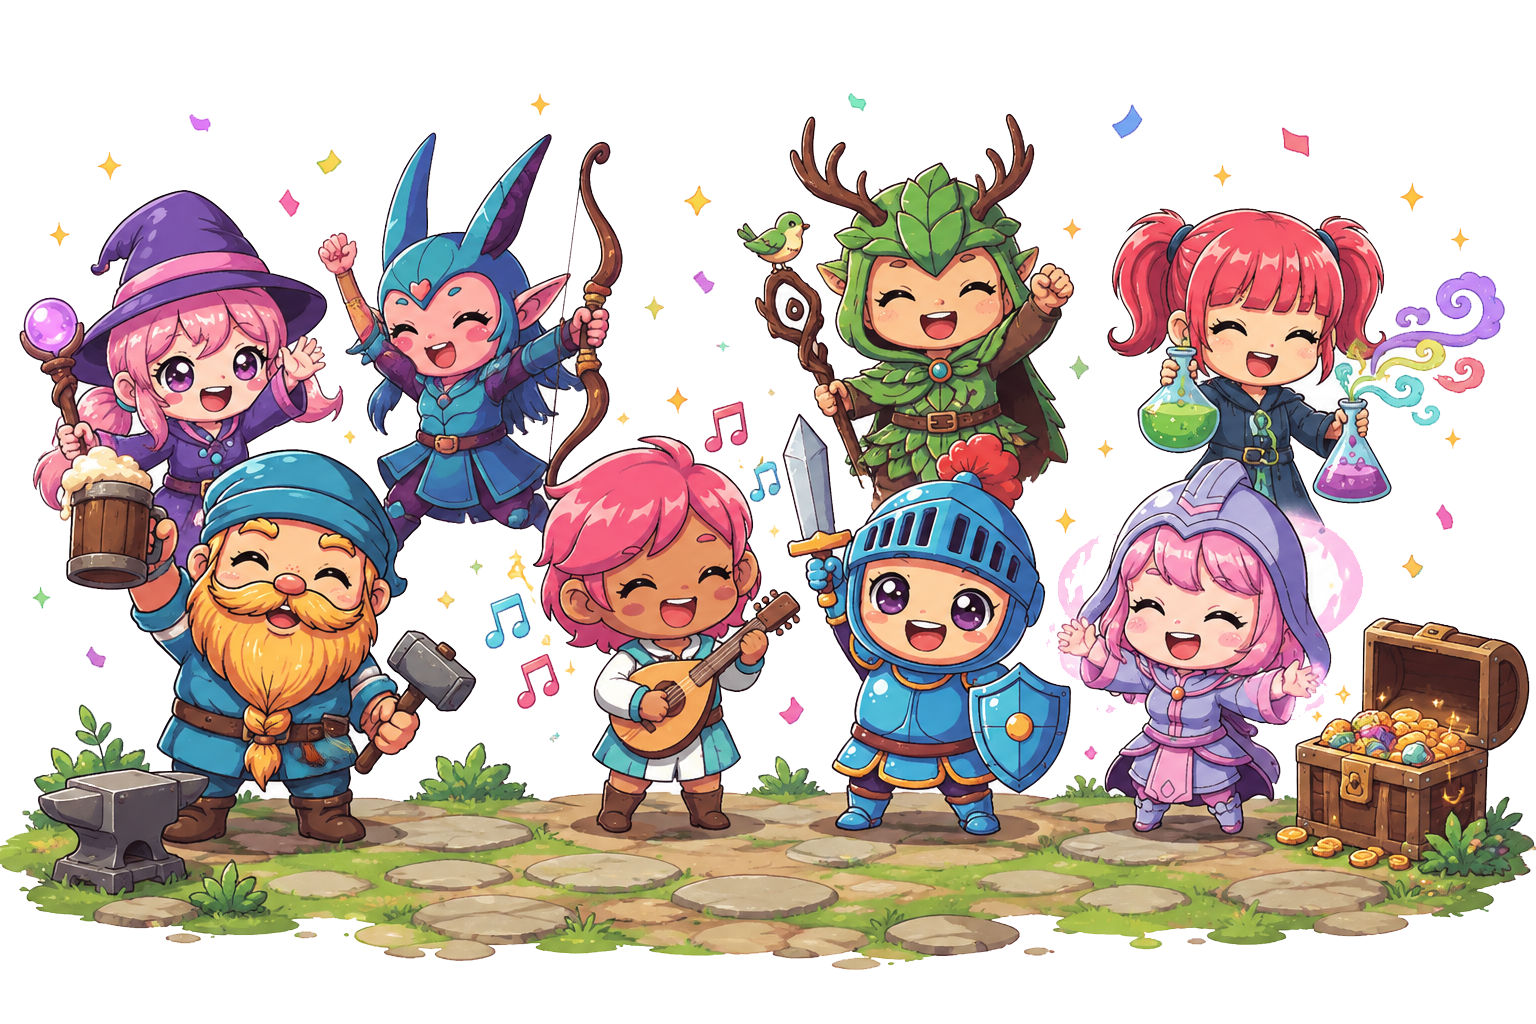
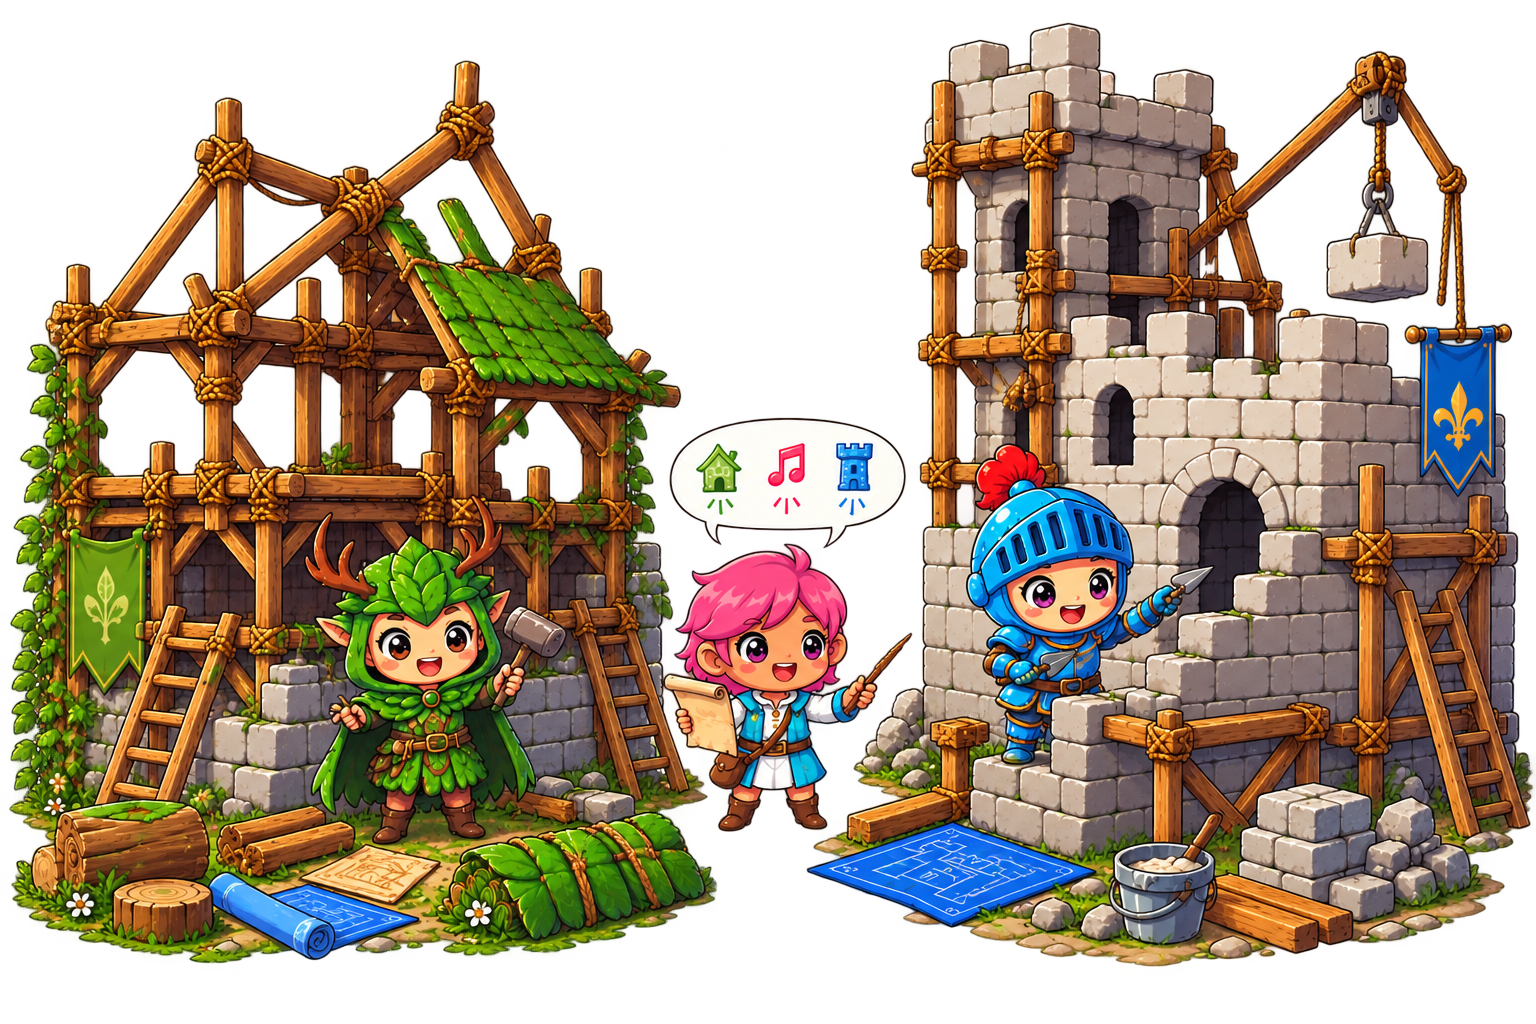
invite card switcheroo

diff --git a/.claude/plans/home/design-mock.html b/.claude/plans/home/design-mock.html
@@ -14,9 +14,23 @@
       sticky joinable pill as CONTENT (the ticker never stops) AND drives the hero's
       state — green live dot + ENTER SESSION when live, quiet status + START SESSION
       otherwise (GM perspective; role chip reads Game Master / Player per viewer)
-    - The invite stack: toggle "Invite waiting" — a hero-sized card dealt ON TOP of the
-      hero (which dims and goes inert beneath); Accept is one tap, Decline is a two-step
-      in-card confirm (nothing sent until confirmed)
+    - The invite stack (reworked 2026-08-29): the hero is NEVER occluded at rest — an
+      invite is a notification, and hiding "is my game on?" behind one inverted the
+      page's own priority. A pending invite TUCKS UNDER the hero at its bottom-right:
+      same-size card, and because both right faces lean the same 8° the exposed sliver
+      is a constant-width band along the hero's slanted face plus a strip below its
+      bottom edge. The invite's top-right corner is the exposed part, so a bare gold
+      "!" sits there (no circle, no plate — fa-solid exclamation in the real build)
+      wiggling ±20°: two full oscillations inside 1s, then 2s rest, on a 3s loop.
+      Clicking the peeking card runs the SWITCHEROO (2026-08-29): the two cards trade
+      places exactly — the invite slides into the hero's precise position while the
+      hero simultaneously slides into the tucked slot the invite vacated, now peeking
+      out underneath with its own band exposed. No dimming: the demoted card is not
+      "disabled beneath", it is waiting in the deck. Clicking the hero's peeking band
+      swaps them back (symmetric affordance); the "!" stays the invite's marker only —
+      the tucked hero never gets one. Accept is one tap, Decline is a two-step in-card
+      confirm (nothing sent until confirmed); on dismiss the hero slides home while
+      the invite card lifts away
     - The news noticeboard: the page's single light card, with frame-breaking BANNERS
       (flat — no shadow): a post can enable a top banner, a bottom banner, both, or
       neither; READ MORE always sits above the bottom banner. Both banners carry real
@@ -104,7 +118,11 @@
        2026-08-29: the plates rendered as plain rounded rects). */
   }
   * { margin:0; padding:0; box-sizing:border-box; }
-  body { background:var(--smoke); color:var(--carbon); font-family:var(--sans); }
+  /* overflow-x:clip — the tucked invite's band overhangs main's 24px
+     gutter on ≤1410px windows; clip (not hidden — no scroll container)
+     keeps the page from ever scrolling sideways */
+  body { background:var(--smoke); color:var(--carbon); font-family:var(--sans);
+         overflow-x:clip; }
 
   /* ── chrome — mirrors SiteHeader.js + TabNav.js ─────────── */
   header.top { background:var(--carbon); border-bottom:1px solid rgba(55,50,47,.25); }
@@ -182,7 +200,20 @@
   /* slanted plate — all hero visuals clip inside this frame, so the
      invite card (a sibling, a physical dealt card) keeps its own shape
      and can spill its shadow outside */
-  .hero-frame { position:absolute; inset:0; border-radius:6px; overflow:hidden;
+  /* the deck has two SLOTS that are places, not states: primary (0,0)
+     and tucked (56px,24px). .hero-deck carries the hero's three pieces
+     as ONE physical card so the switcheroo moves a single element per
+     card — and, like .invite, the wrapper lets the tucked shadow render
+     outside .hero-frame's clip (a same-element drop-shadow is clipped).
+     Rest filter is a transparent drop-shadow, not none, so the swap
+     interpolates smoothly. */
+  .hero-deck { position:relative; z-index:2; transform:translate(0,0);
+               filter:drop-shadow(0 0 0 rgba(5,4,3,0)); cursor:default;
+               transition:transform .35s, filter .35s; }
+  body.invite-promoted .hero-deck { z-index:1; transform:translate(56px, 24px);
+               filter:drop-shadow(0 12px 18px rgba(5,4,3,.35)); cursor:pointer; }
+  /* z 2/3 order the pieces inside the deck's own stacking context */
+  .hero-frame { position:absolute; inset:0; z-index:2; border-radius:6px; overflow:hidden;
                 --run:42px; background:var(--carbon); }
   .hero-art { position:absolute; inset:0;
               background:
@@ -203,7 +234,7 @@
      owns the majority of the plate. */
   .hero-panel { position:absolute; inset:0; background:var(--carbon);
                 clip-path:polygon(0 0, calc(40% + 42px) 0, 40% 100%, 0 100%); }
-  .hero-content { position:relative; padding:44px 42px 38px; display:flex; flex-direction:column;
+  .hero-content { position:relative; z-index:3; padding:44px 42px 38px; display:flex; flex-direction:column;
                   gap:14px; min-height:300px; justify-content:flex-start; }
   .hero-meta { display:flex; align-items:center; gap:12px; font-size:13px; color:#d9d4cd; }
   /* chips are 8° parallelograms — skew the box, counter-skew the text */
@@ -223,7 +254,7 @@
   .hero-desc { max-width:460px; font-size:14.5px; line-height:1.55; color:#cfc9c2; }
   /* right offset clears the plate's leaning right face (inset ≈ 37px at
      the buttons' depth) */
-  .hero-actions { position:absolute; right:60px; bottom:36px; display:flex; gap:14px; }
+  .hero-actions { position:absolute; z-index:3; right:60px; bottom:36px; display:flex; gap:14px; }
 
   /* card CTAs are rounded parallelograms (2026-08-29) — skew the box,
      counter-skew the label */
@@ -237,22 +268,68 @@
                border:1px solid rgba(247,244,243,.35); }
   .btn-ghost:hover { border-color:rgba(247,244,243,.6); }
 
-  /* ── invite stack — a card ON a card ─────────────────────
-     Same dimensions as the hero, offset a few px on x/y so the under-card
-     edge shows; the hero dims and goes inert beneath it. */
-  .invite { position:absolute; inset:0; z-index:5; --run:42px;
-            transform:translate(12px, -12px);
+  /* ── invite stack — a card UNDER a card (reworked 2026-08-29) ──
+     The hero is never occluded at rest. The invite (hero-sized) tucks
+     BENEATH the hero's bottom-right: translate(56px, 24px) under
+     z-index 1 (hero pieces sit at 2/3). Both right faces lean the same
+     8°, so the exposed sliver is a CONSTANT-width band along the hero's
+     slant — 56 + tan(8°)·24 ≈ 59px — plus a 24px strip below its bottom
+     edge. Clicking the band promotes the card to the top of the deck. */
+  .invite { position:absolute; inset:0; z-index:1; --run:42px;
+            transform:translate(56px, 24px); cursor:pointer;
             /* box-shadow dies under clip-path, and a same-element
                drop-shadow is clipped with it — so the shadow lives here
                on the wrapper and the clip lives on .invite-plate */
-            filter:drop-shadow(0 22px 30px rgba(5,4,3,.55));
-            opacity:0; pointer-events:none; transition:opacity .35s, transform .35s; }
+            filter:drop-shadow(0 12px 18px rgba(5,4,3,.35));
+            opacity:0; pointer-events:none;
+            transition:opacity .35s, transform .35s, filter .35s; }
   /* the invite is a plate too (2026-08-29): right-face slant, same --run
      as the hero it covers — but NO inner seam */
   .invite-plate { position:absolute; inset:0; border-radius:6px; overflow:hidden;
                   background:var(--carbon); }
   body.show-invite .invite { opacity:1; pointer-events:auto; }
-  .invite.leaving { opacity:0; transform:translate(12px, -52px); }
+  /* the switcheroo (2026-08-29): promoted = the invite takes the hero's
+     EXACT position (0,0) while .hero-deck takes the tucked slot — the two
+     cards trade places. The primary slot is flat (transparent shadow, as
+     the hero is at rest); the soft shadow always belongs to whichever
+     card is tucked. z-index swaps instantly (it can't animate), so the
+     invite rides over the hero as their paths cross. */
+  body.invite-promoted .invite { z-index:2; transform:translate(0, 0);
+            filter:drop-shadow(0 0 0 rgba(5,4,3,0)); cursor:default;
+            /* the wrapper's rect isn't clipped (the shadow lives here),
+               so while promoted its hit area would swallow band clicks
+               meant for the tucked hero where the slants overlap the
+               rect — route hits through the plate, whose clip-path
+               bounds them exactly */
+            pointer-events:none; }
+  body.invite-promoted .invite-plate { pointer-events:auto; }
+  /* dismiss: the invite lifts away from the primary slot while the deck
+     (invite-promoted removed at the same moment) slides home beneath it.
+     After the promoted rule — equal specificity, source order wins. */
+  body.show-invite .invite.leaving { opacity:0; z-index:2; transform:translate(0, -40px); }
+  .invite.leaving .invite-alert { opacity:0; }   /* no "!" pop-in on the way out */
+  /* the "!" — a bare glyph, no circle, no plate (fa-solid exclamation in
+     the real build). It lives on the invite's TOP-RIGHT because that
+     corner is what the tuck exposes past the hero's edge — the wiggle on
+     the visible sliver is the "look at me". Child of the wrapper, not
+     the plate, so neither clip nor overflow can cut the swing. */
+  .invite-alert { position:absolute; top:10px; right:20px; font-size:30px;
+            font-weight:700; line-height:1; color:var(--gold);
+            transform-origin:50% 100%;   /* bell-swing from the foot */
+            animation:invite-wiggle 3s ease-in-out infinite;
+            transition:opacity .25s; }
+  body.invite-promoted .invite-alert { opacity:0; }
+  /* wiggle spec (2026-08-29): 3s cycle — the first 1s holds TWO full ±20°
+     oscillations (left, right, left, right), the remaining 2s rest */
+  @keyframes invite-wiggle {
+    0%    { transform:rotate(0deg); }
+    4.2%  { transform:rotate(20deg); }
+    12.5% { transform:rotate(-20deg); }
+    20.8% { transform:rotate(20deg); }
+    29.2% { transform:rotate(-20deg); }
+    33.3% { transform:rotate(0deg); }
+    100%  { transform:rotate(0deg); }
+  }
   .invite-art { position:absolute; inset:0;
                 background:
                   radial-gradient(90% 110% at 22% 0%, #3d5a45 0%, rgba(61,90,69,0) 55%),
@@ -271,11 +348,15 @@
   .invite.confirming .invite-confirm { display:block; }
   .invite-confirm p { font-size:14.5px; margin-bottom:14px; color:#d9d4cd; }
   .btn-danger { background:#7a2f2a; color:#f3ded9; }
-  /* hero disabled while an invite sits on it */
-  .hero-frame, .hero-content, .hero-actions { transition:opacity .35s, filter .35s; }
-  body.show-invite .hero-frame { filter:brightness(.5) saturate(.7); }
-  body.show-invite .hero-content,
-  body.show-invite .hero-actions { opacity:.35; pointer-events:none; }
+  /* no dimming (2026-08-29): the demoted hero is not "disabled beneath",
+     it is waiting in the deck — a live card whose band swaps it back.
+     Only its buttons go inert so a band click can't fire START SESSION. */
+  body.invite-promoted .hero-actions { pointer-events:none; }
+  /* while the invite is tucked, its exposed band's upper reach overlaps
+     .hero-content's transparent box (full-width block, z above the
+     invite) — drop its hit area so band clicks land; it holds no
+     interactive elements */
+  body.show-invite:not(.invite-promoted) .hero-content { pointer-events:none; }
 
   /* ── columns ────────────────────────────────────────────── */
   .grid { display:grid; grid-template-columns:2fr 3fr; gap:26px; margin-top:26px; }
@@ -370,7 +451,10 @@
      Dot clamped hard left — the pulse SOURCE. Events emit from it and age
      rightward (newest nearest the dot, older items dimmer), the hairline
      rule trails off toward the page edge. */
-  .pulse-divider { display:flex; align-items:center; gap:14px; margin:30px 0 0;
+  /* 54px top = 24px (the deck's tucked slot — reserved ALWAYS, so
+     toggling an invite never shifts the page) + the 30px hero→pulse gap
+     measured from the slot's bottom edge (2026-08-29) */
+  .pulse-divider { display:flex; align-items:center; gap:14px; margin:54px 0 0;
                    min-height:34px; padding-left:4px; }
   .pulse-divider .rule { flex:1; height:1px; min-width:40px;
                          background:linear-gradient(90deg, #D5CFC5, rgba(213,207,197,0)); }
@@ -385,7 +469,8 @@
   @media (prefers-reduced-motion: reduce) {
     .pulse-dot, .live-dot { animation:none; opacity:.85; }
     .pulse-item { transition:none; }
-    .coin, .invite { transition:none; }
+    .coin, .invite, .hero-deck { transition:none; }
+    .invite-alert { animation:none; }   /* the "!" holds still */
     .clock .colon.dim { opacity:1; }   /* no 1Hz blink */
   }
   .pulse-coins { display:flex; flex:0 0 auto; }
@@ -596,6 +681,7 @@
 
   <!-- hero + invite stack -->
   <section class="hero">
+    <div class="hero-deck" id="heroDeck">
     <div class="hero-frame">
       <div class="hero-art"></div>
       <div class="hero-panel"></div>
@@ -613,6 +699,7 @@
       <button class="btn btn-ghost"><span>NOTES</span></button>
       <button class="btn btn-ghost"><span>INVITE PLAYER</span></button>
       <button class="btn btn-gold" id="heroCta"><span>ENTER SESSION →</span></button>
+    </div>
     </div>
 
     <div class="invite" id="inviteCard">
@@ -639,6 +726,7 @@
         </div>
       </div>
       </div>
+      <div class="invite-alert" aria-hidden="true">!</div>
     </div>
   </section>
 
@@ -934,12 +1022,29 @@
   tickClock();
   setInterval(tickClock, 1000);
 
-  /* ── Invite stack: accept = one tap; decline = two-step in-card confirm ── */
+  /* ── Invite stack: tucked under the hero at rest; clicking the peeking
+     band runs the switcheroo — the two cards trade places exactly.
+     Clicking the tucked HERO's band swaps them back (symmetric).
+     Accept = one tap; decline = two-step in-card confirm. ── */
   const inviteCard = document.getElementById('inviteCard');
+  const heroDeck = document.getElementById('heroDeck');
   function toggleInvite(show) {
     inviteCard.classList.remove('leaving', 'confirming');
+    document.body.classList.remove('invite-promoted');
     document.body.classList.toggle('show-invite', show);
   }
+  inviteCard.addEventListener('click', (clickEvent) => {
+    if (clickEvent.target.closest('button')) return;
+    if (!document.body.classList.contains('invite-promoted')) {
+      document.body.classList.add('invite-promoted');
+    }
+  });
+  heroDeck.addEventListener('click', () => {
+    if (document.body.classList.contains('invite-promoted')) {
+      inviteCard.classList.remove('confirming');   /* demote resets a mid-decline face */
+      document.body.classList.remove('invite-promoted');
+    }
+  });
   /* ── characters strip: card size is FIXED by the 4-shell fill rule —
      dropping to 2 characters leaves the trailing stride empty ── */
   function setCharCount(count) {
@@ -962,9 +1067,14 @@
   function cancelDecline() { inviteCard.classList.remove('confirming'); }
   function confirmDecline() { dismissInvite(); }
   function dismissInvite() {
+    /* invite-promoted drops NOW so the hero slides home beneath the
+       lifting invite — the .leaving rule holds the invite's exit
+       transform on its own */
     inviteCard.classList.add('leaving');
+    document.body.classList.remove('invite-promoted');
     setTimeout(() => {
       document.body.classList.remove('show-invite');
+      inviteCard.classList.remove('leaving');
       document.getElementById('inviteToggle').checked = false;
     }, 380);
   }
